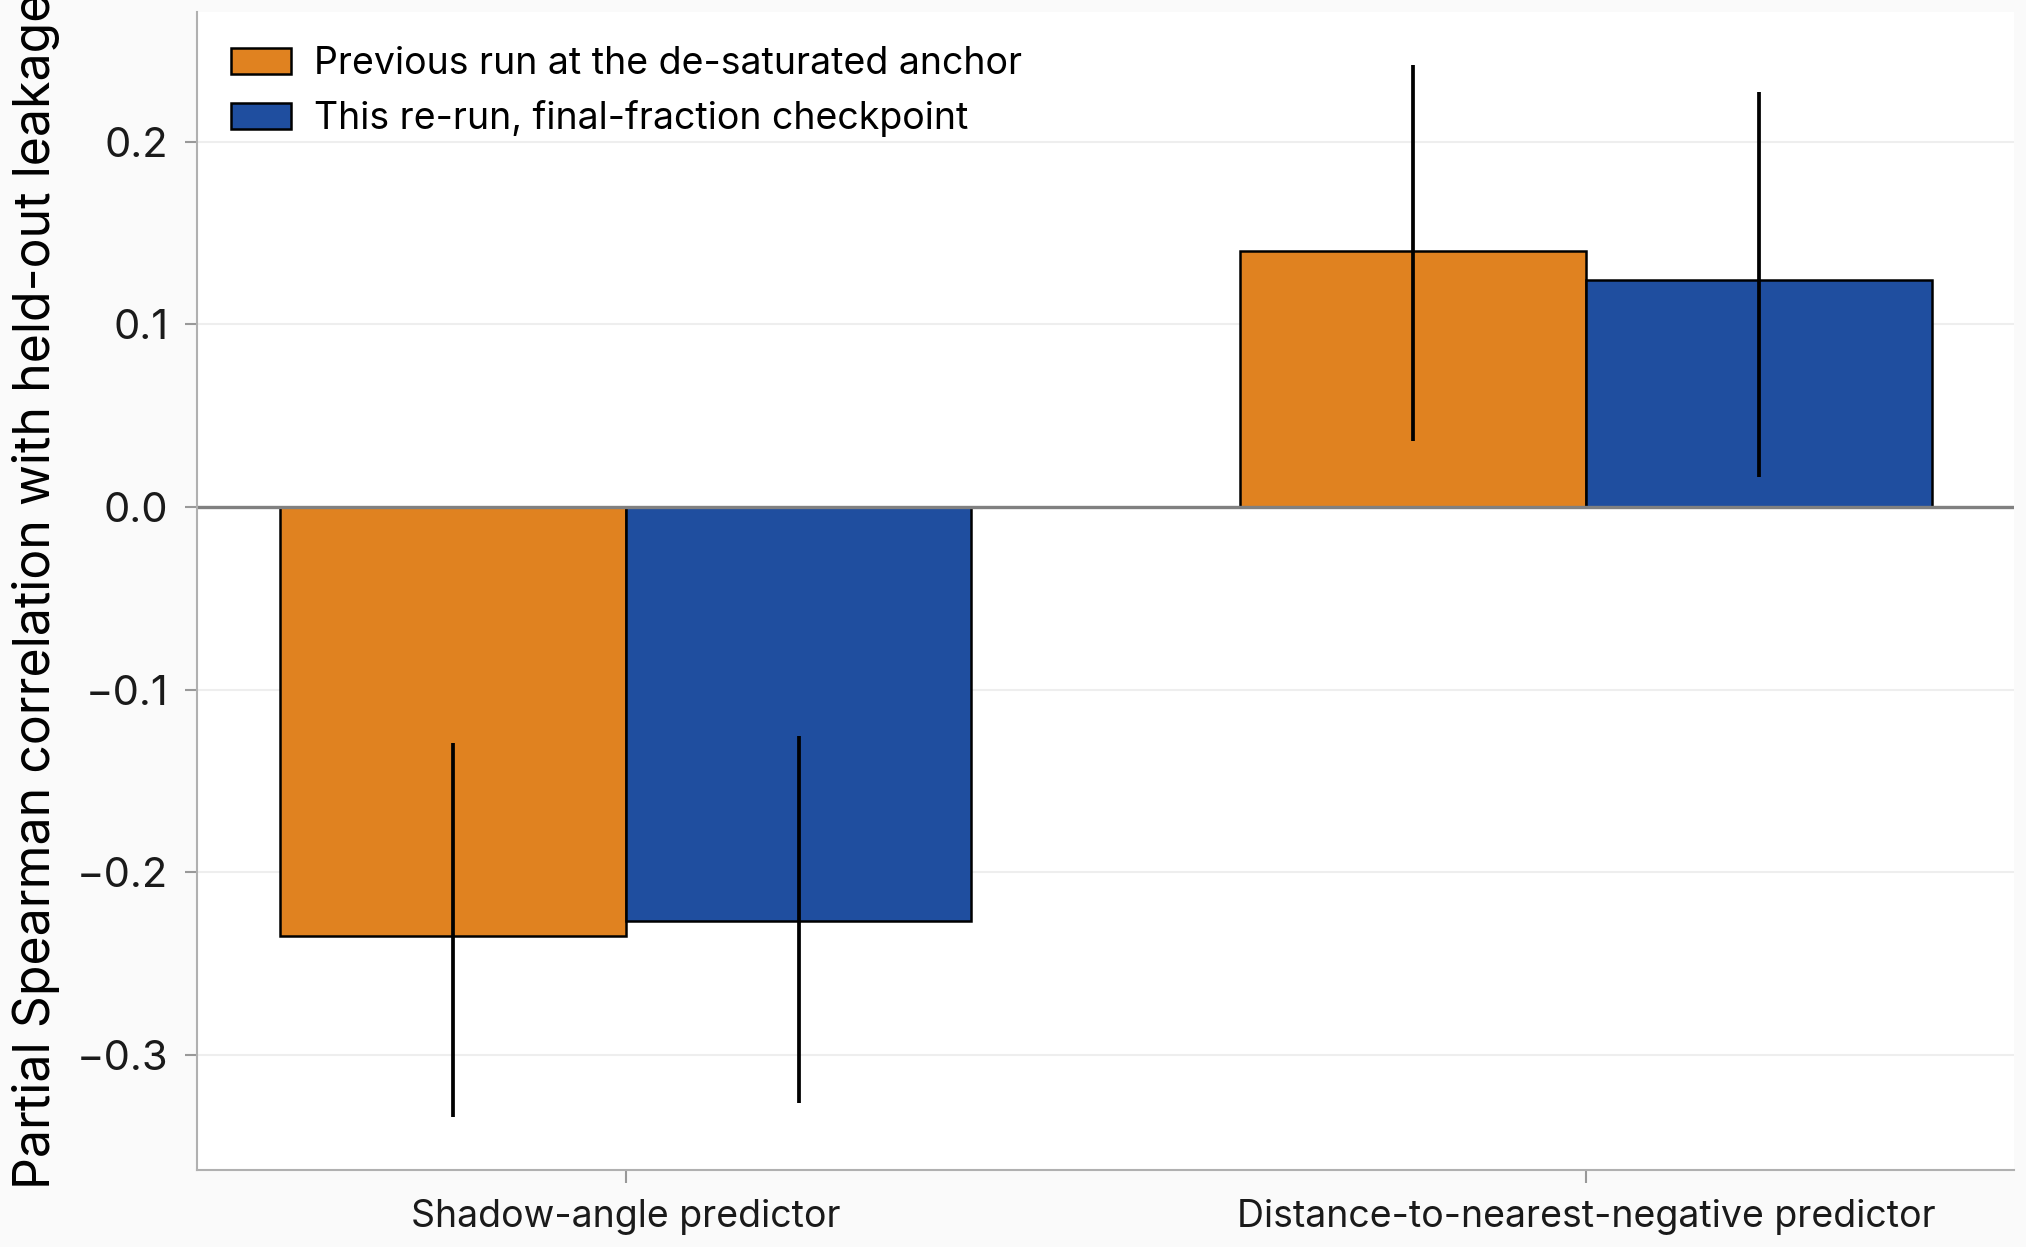
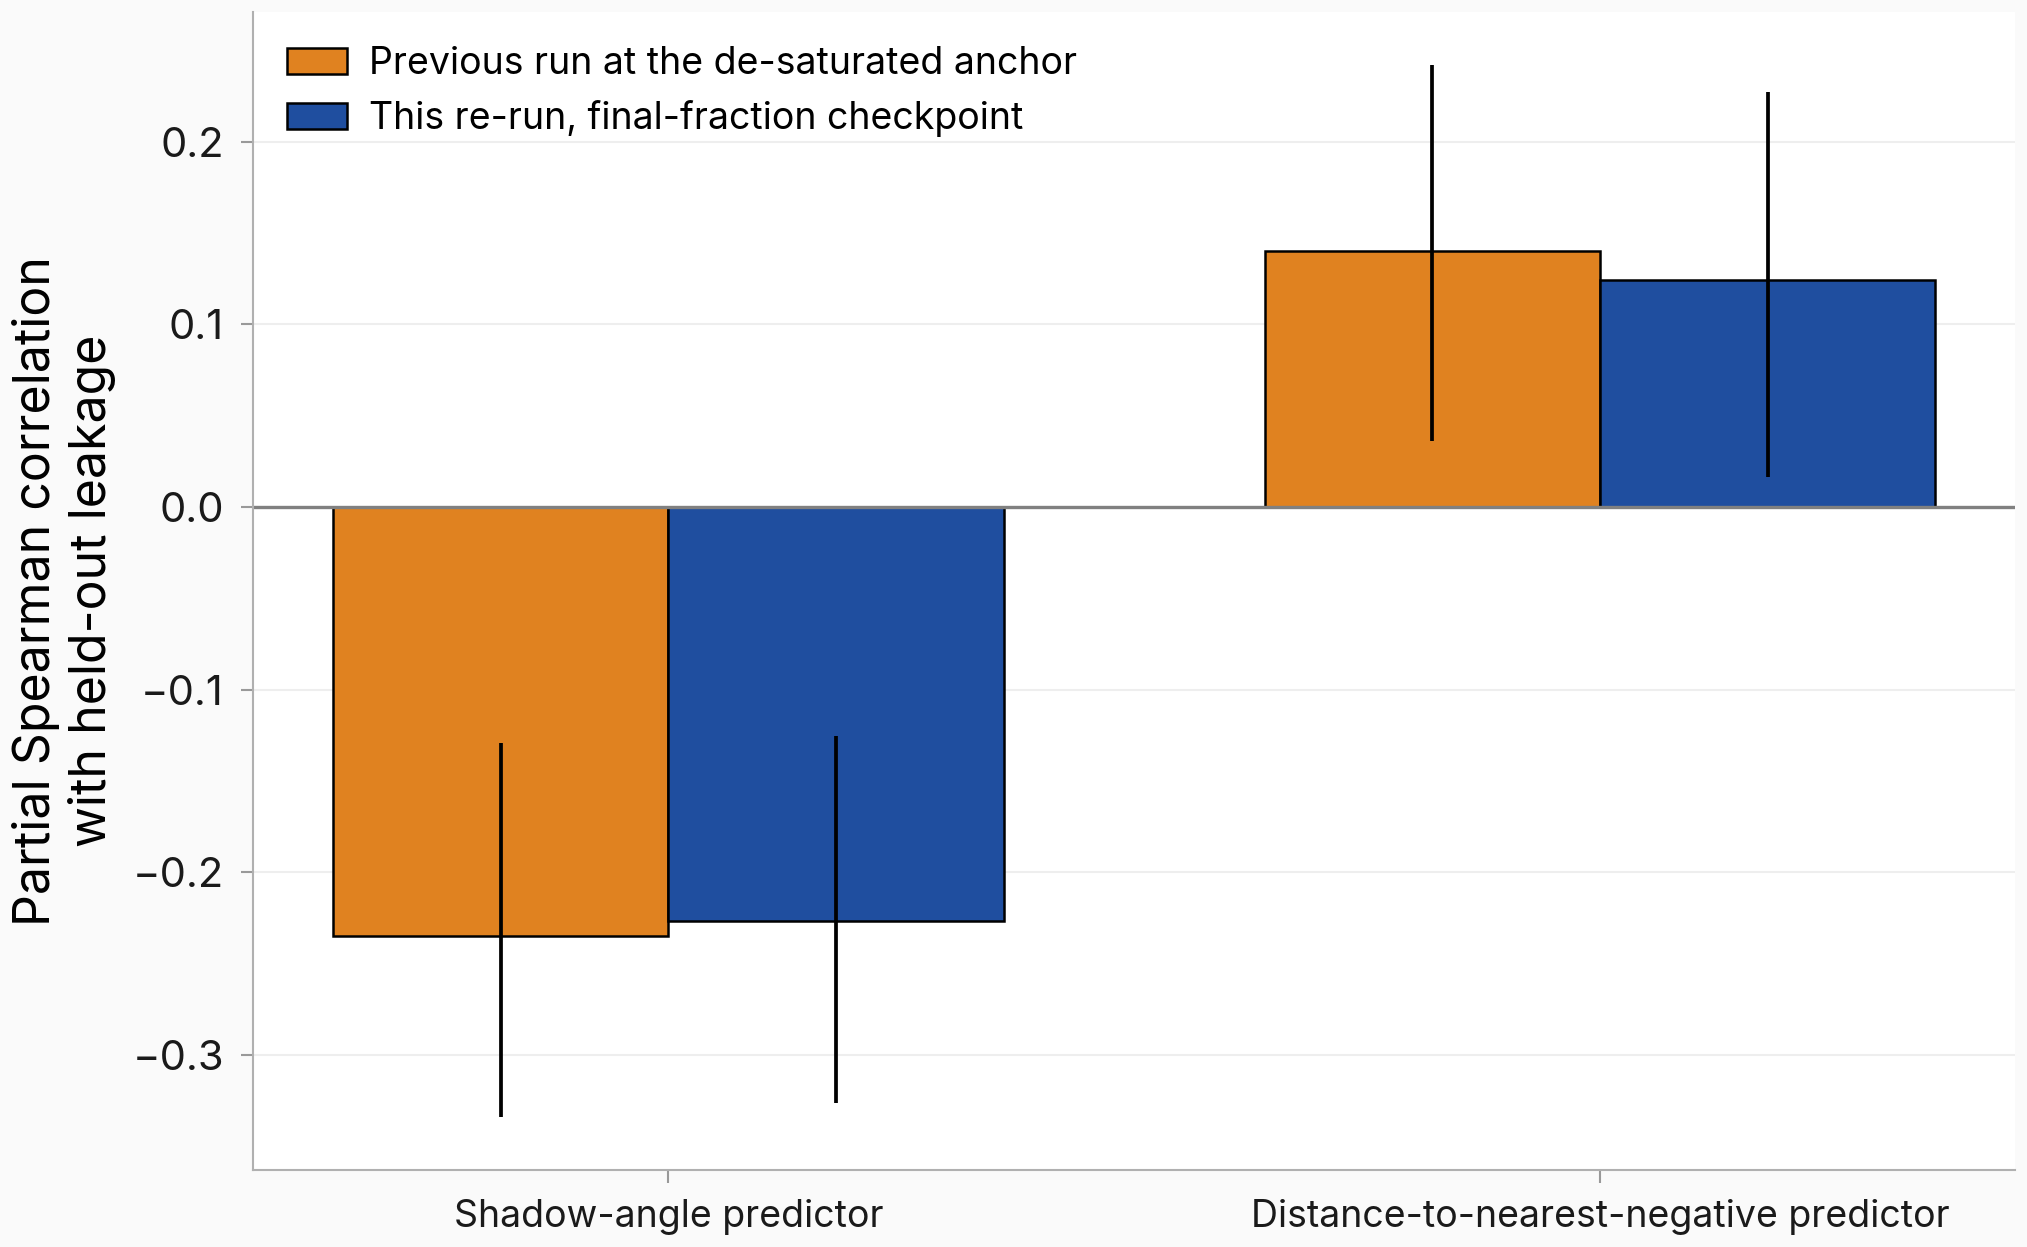
task #534: un-clip replication-figure y-label + paired row-bootstrap on between-checkpoint delta-rho (free-analysis follow-up, run at interpretation round 2)

diff --git a/scripts/i534_paired_delta_rho_bootstrap.py b/scripts/i534_paired_delta_rho_bootstrap.py
@@ -1,0 +1,210 @@
+"""#534 free-analysis follow-up: paired row-bootstrap on Δρ between the two usable checkpoints.
+
+The round-1 clean-result read "grows into the stop" (frac 0.75 → 1.00) rested on
+point estimates. This script puts a paired interval on the between-checkpoint
+change in the two headline partial Spearman correlations: the SAME 432
+(probe × arm × seed) rows exist at both fractions, so each bootstrap iteration
+resamples row keys ONCE and recomputes the partial ρ at both fractions on the
+identical resampled rows, then takes the difference ρ(1.00) − ρ(0.75).
+
+Runs purely over committed eval JSONs (zero GPU). Writes
+eval_results/issue_534/paired_delta_rho_bootstrap.json.
+
+Usage:
+    uv run python scripts/i534_paired_delta_rho_bootstrap.py
+"""
+
+from __future__ import annotations
+
+import argparse
+import json
+import logging
+import math
+import os
+import subprocess
+import sys
+from datetime import UTC, datetime
+from pathlib import Path
+
+import numpy as np
+
+log = logging.getLogger("i534_paired_delta_rho")
+
+HEADLINE_PREDICTORS = ("shadow_angle", "d_nearest_neg_nd")
+
+
+def _git_sha() -> str:
+    """Return the current short git SHA (for reproducibility metadata)."""
+    return subprocess.run(
+        ["git", "rev-parse", "--short=9", "HEAD"],
+        capture_output=True,
+        text=True,
+        check=True,
+    ).stdout.strip()
+
+
+def paired_bootstrap_delta_rho(
+    rows_a: list[dict],
+    rows_b: list[dict],
+    predictor: str,
+    *,
+    n_boot: int,
+    seed: int,
+    alpha: float = 0.05,
+) -> dict:
+    """Paired percentile CI on ρ_b − ρ_a for one predictor.
+
+    rows_a / rows_b are the build_rows() pools at the earlier / later fraction.
+    Rows are paired by (cell, seed, probe); asserts a perfect 1:1 key match.
+    Each iteration resamples the SHARED key index once and recomputes the
+    partial Spearman (exact production estimator) at both fractions on the
+    identical resampled keys.
+    """
+    from explore_persona_space.experiments.contrastive_neg_geometry_504.analyze import (
+        PREDICTORS,
+        _partial_spearman,
+    )
+
+    def _key(r: dict) -> tuple:
+        return (r["cell"], r["seed"], r["probe"])
+
+    a_by_key = {_key(r): r for r in rows_a}
+    b_by_key = {_key(r): r for r in rows_b}
+    assert set(a_by_key) == set(b_by_key), (
+        f"row-key mismatch: {len(a_by_key)} vs {len(b_by_key)} keys, "
+        f"sym-diff {len(set(a_by_key) ^ set(b_by_key))}"
+    )
+    keys = sorted(a_by_key)
+    n = len(keys)
+
+    def _cols(by_key: dict) -> tuple[dict[str, np.ndarray], np.ndarray]:
+        cols = {p: np.asarray([by_key[k][p] for k in keys], dtype=np.float64) for p in PREDICTORS}
+        y = np.asarray([by_key[k]["delta_g"] for k in keys], dtype=np.float64)
+        return cols, y
+
+    cols_a, y_a = _cols(a_by_key)
+    cols_b, y_b = _cols(b_by_key)
+
+    def _rho(cols: dict[str, np.ndarray], y: np.ndarray, idx: np.ndarray) -> float | None:
+        return _partial_spearman(
+            y[idx].tolist(),
+            cols[predictor][idx].tolist(),
+            [cols[q][idx].tolist() for q in PREDICTORS if q != predictor],
+        )
+
+    rng = np.random.default_rng(seed)
+    vals: list[float] = []
+    n_failed = 0
+    for _ in range(n_boot):
+        idx = rng.integers(0, n, n)  # ONE shared resample → paired
+        ra = _rho(cols_a, y_a, idx)
+        rb = _rho(cols_b, y_b, idx)
+        if any(v is None or (isinstance(v, float) and math.isnan(v)) for v in (ra, rb)):
+            n_failed += 1
+            continue
+        vals.append(float(rb) - float(ra))
+    point = None
+    full_idx = np.arange(n)
+    ra0, rb0 = _rho(cols_a, y_a, full_idx), _rho(cols_b, y_b, full_idx)
+    if ra0 is not None and rb0 is not None:
+        point = float(rb0) - float(ra0)
+    lo, hi = (None, None)
+    if vals:
+        lo, hi = (float(v) for v in np.percentile(vals, [100 * alpha / 2, 100 * (1 - alpha / 2)]))
+    share_signed = None
+    if vals and point is not None:
+        sign = math.copysign(1.0, point) if point != 0 else 1.0
+        share_signed = float(np.mean([math.copysign(1.0, v) == sign for v in vals]))
+    return {
+        "n_rows_paired": n,
+        "point_delta_rho": point,
+        "lo": lo,
+        "hi": hi,
+        "alpha": alpha,
+        "n_boot": n_boot,
+        "n_failed": n_failed,
+        "share_resamples_matching_point_sign": share_signed,
+    }
+
+
+def main(argv: list[str] | None = None) -> int:
+    """Build the frac 0.75 / 1.00 row pools and bootstrap the paired Δρ."""
+    ap = argparse.ArgumentParser(description=__doc__)
+    ap.add_argument("--slab-root", type=Path, default=Path("eval_results/issue_534"))
+    ap.add_argument(
+        "--phase05-path", type=Path, default=Path("eval_results/issue_530/phase0_5_gates.json")
+    )
+    ap.add_argument("--frac-a", type=float, default=0.75)
+    ap.add_argument("--frac-b", type=float, default=1.0)
+    ap.add_argument("--seeds", default="42,137")
+    ap.add_argument("--n-boot", type=int, default=2000)
+    ap.add_argument("--boot-seed", type=int, default=534)
+    ap.add_argument("--out", type=Path, default=None)
+    args = ap.parse_args(argv)
+
+    logging.basicConfig(
+        level=os.environ.get("EPS_LOG_LEVEL", "INFO"),
+        format="%(asctime)s [phase=i534_paired_delta_rho] %(levelname)s | %(message)s",
+        stream=sys.stdout,
+    )
+
+    from explore_persona_space.experiments.contrastive_neg_geometry_504 import (
+        POSITIONED_ARM_SLUGS_V3,
+    )
+    from explore_persona_space.experiments.contrastive_neg_geometry_504.analyze import (
+        aggregate_base_prior_from_trajectories,
+        build_rows,
+    )
+    from explore_persona_space.experiments.contrastive_neg_geometry_504.phase05 import (
+        load_phase05,
+    )
+
+    seeds = [int(s) for s in args.seeds.split(",") if s.strip()]
+    gates = load_phase05(args.phase05_path)
+    base_prior = aggregate_base_prior_from_trajectories(
+        slab_root=args.slab_root, seeds=seeds, positioned_arm_slugs=POSITIONED_ARM_SLUGS_V3
+    )
+
+    pools = {}
+    for f in (args.frac_a, args.frac_b):
+        pooled = build_rows(
+            slab_root=args.slab_root,
+            chosen_frac=f,
+            per_probe=gates["per_probe"],
+            arm_to_positioned_n=gates["arm_to_positioned_n"],
+            seeds=seeds,
+            base_prior_by_probe=base_prior or None,
+            positioned_arm_slugs=POSITIONED_ARM_SLUGS_V3,
+            dg_band=None,
+        )
+        pools[f] = pooled["rows"]
+        log.info("frac %.2f: %d rows", f, len(pooled["rows"]))
+
+    out = {
+        "schema_version": "1",
+        "task_id": 534,
+        "frac_a": args.frac_a,
+        "frac_b": args.frac_b,
+        "delta_is": "rho(frac_b) - rho(frac_a), paired by (cell, seed, probe)",
+        "per_predictor": {
+            p: paired_bootstrap_delta_rho(
+                pools[args.frac_a],
+                pools[args.frac_b],
+                p,
+                n_boot=args.n_boot,
+                seed=args.boot_seed,
+            )
+            for p in HEADLINE_PREDICTORS
+        },
+        "git_commit": _git_sha(),
+        "timestamp_utc": datetime.now(UTC).isoformat(),
+    }
+    out_path = args.out or (args.slab_root / "paired_delta_rho_bootstrap.json")
+    out_path.write_text(json.dumps(out, indent=2))
+    log.info("wrote %s", out_path)
+    print(json.dumps(out["per_predictor"], indent=2))
+    return 0
+
+
+if __name__ == "__main__":
+    raise SystemExit(main())

diff --git a/scripts/issue534_make_figures.py b/scripts/issue534_make_figures.py
@@ -375,7 +375,9 @@ def fig6_replication_bars(analysis: dict, out_dir: Path) -> None:
     ax.axhline(0.0, color="grey", linewidth=0.8)
     ax.set_xticks(x)
     ax.set_xticklabels([HEADLINE_LABELS[p] for p in preds], fontsize=9)
-    ax.set_ylabel("Partial Spearman correlation with held-out leakage")
+    # Two-line label: the single-line form is taller than the axes and the
+    # blog-style margins clip it at the top/left edge of the saved PNG.
+    ax.set_ylabel("Partial Spearman correlation\nwith held-out leakage")
     ax.legend(frameon=False, fontsize=9)
     fig.tight_layout()
     savefig_paper(fig, "replication_530_vs_534_frac100", dir=out_dir)
